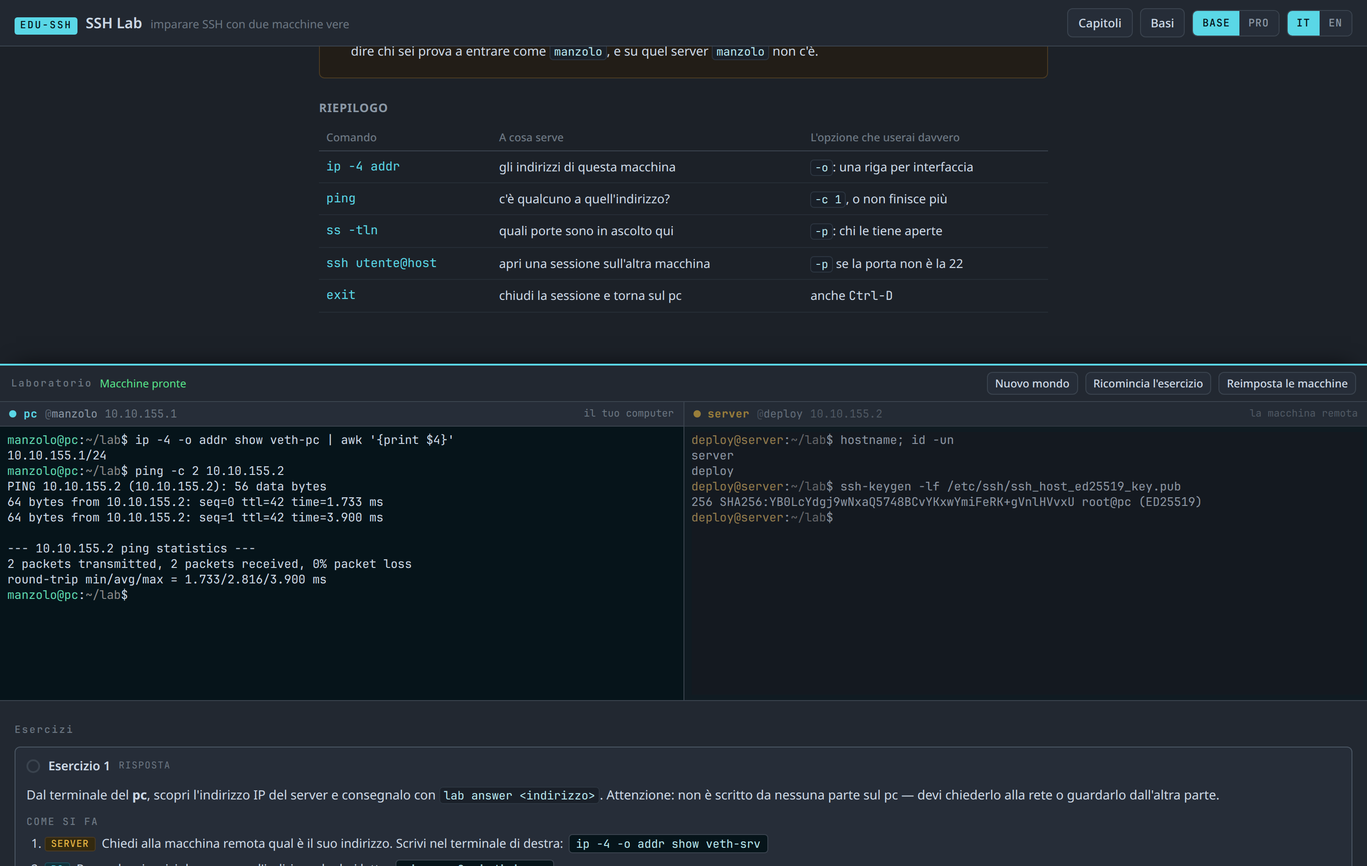
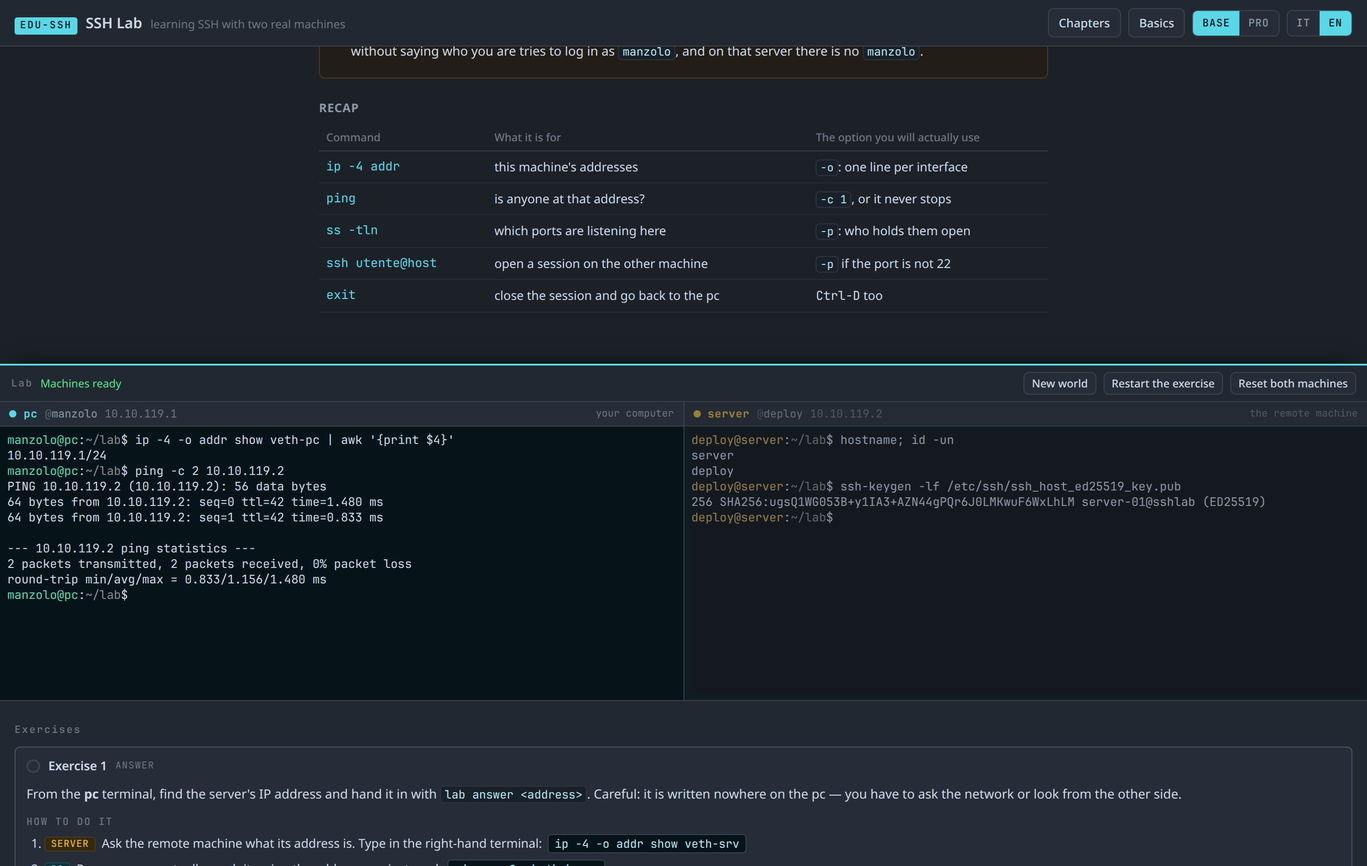
La rotazione sicura aggiunge, prova e solo dopo ritira

diff --git a/content/ch12/chapter.js b/content/ch12/chapter.js
@@ -1,0 +1,98 @@
+export default {
+    id: "ch12", num: 12, requires: ["ch11"], draft: false,
+    title: { it: "Ruotare senza chiudersi fuori", en: "Rotate without locking yourself out" },
+    oneLiner: { it: "Aggiungi, prova la nuova da sola, e soltanto dopo ritira la vecchia.", en: "Add, test the new key alone, and only then retire the old one." },
+    commands: ["ssh-keygen", "authorized_keys", "IdentitiesOnly", "ssh -i", "commento #"],
+    glossary: ["rotazione additiva", "ritiro", "prova isolata", "rollback", "chiave fantasma"],
+    blocks: [
+        { kind: "hook", html: { it: `Devi sostituire una chiave che apre un server remoto. Se
+            cancelli prima la vecchia e la nuova ha un errore, hai appena perso il canale con cui
+            riparare. La rotazione sicura non e' una sostituzione istantanea. E' una sequenza con
+            un periodo deliberato in cui funzionano entrambe.`, en: `You must replace a key that
+            opens a remote server. If you delete the old one first and the new one is wrong, you
+            just lost the channel needed to repair it. Safe rotation is not an instant
+            replacement. It is a sequence with a deliberate period when both work.` } },
+        { kind: "lead", html: { it: `L'ordine e' la protezione: fai una copia di sicurezza,
+            genera la nuova, aggiungila accanto alla vecchia, provala isolando ogni altra
+            identita', poi commenta la vecchia. Tieni aperta la sessione corrente finche' la
+            prova non e' finita.`, en: `Order is the protection: make a backup, generate the new
+            key, add it beside the old one, test it while isolating every other identity, then
+            comment out the old one. Keep the current session open until testing is complete.` } },
+        { kind: "analogy", html: { it: `Non getti il vecchio mazzo prima di aver provato la nuova
+            chiave nella serratura, dalla parte esterna. Per qualche minuto porti entrambe. Solo
+            quando la nuova apre davvero, segni la vecchia come ritirata.`, en: `You do not throw
+            away the old keyring before trying the new key in the lock from outside. For a few
+            minutes you carry both. Only after the new one actually opens do you mark the old
+            one as retired.` } },
+        { kind: "shown", lines: [
+            { cmd: "ssh-keygen -t ed25519 -f ~/.ssh/id_nuova", out: "Generating public/private ed25519 key pair...", note: { it: "Una rotazione crea una coppia nuova, quindi un'impronta nuova.", en: "A rotation creates a new pair, hence a new fingerprint." } },
+            { cmd: "ssh -o IdentitiesOnly=yes -i ~/.ssh/id_nuova deploy@10.10.0.2 true", out: "", note: { it: "La prova esclude agent e chiavi vecchie: sai quale ha firmato.", en: "The test excludes the agent and old keys: you know which one signed." } },
+            { cmd: "# ssh-ed25519 AAAA... vecchia", out: "", note: { it: "Commentare revoca la riga ma conserva una traccia annullabile.", en: "Commenting revokes the line while keeping reversible evidence." } },
+        ] },
+        { kind: "pitfalls", items: [
+            { it: `<strong>Cancelli la vecchia appena hai copiato la nuova.</strong> Copiare non
+                dimostra che permessi, riga, file e privata siano coerenti. Prova un nuovo login
+                mentre la vecchia e' ancora presente.`, en: `<strong>You delete the old key as
+                soon as you copy the new one.</strong> Copying does not prove permissions, line,
+                file, and private key agree. Test a fresh login while the old one remains.` },
+            { it: `<strong>Provi con un semplice <code>ssh host</code>.</strong> L'agent o un nome
+                predefinito puo' usare ancora la vecchia. Aggiungi <code>IdentitiesOnly=yes</code>
+                e <code>-i id_nuova</code>; poi leggi l'impronta accettata da sshd.`, en: `<strong>
+                You test with plain <code>ssh host</code>.</strong> The agent or a default name may
+                still use the old key. Add <code>IdentitiesOnly=yes</code> and
+                <code>-i id_nuova</code>; then read the fingerprint accepted by sshd.` },
+        ] },
+        { kind: "pro", html: { it: `<p><code>authorized_keys</code> e' un insieme additivo: due
+            righe distinte autorizzano due firme distinte. Non esiste un comando di rotazione
+            atomico nel protocollo SSH. La sicurezza operativa nasce dalla sovrapposizione e da
+            una prova osservata dal server.</p><p>Toccare soltanto il config locale non ritira
+            niente. La pubblica resta valida su ogni server che la contiene. In una ricognizione
+            reale sono emerse <strong>14 chiavi fantasma su 5 macchine</strong>: 7 appartenevano a
+            computer che non esistevano piu', e avevano ancora accesso root. Il ritiro si conclude
+            sui server, non sul pc da cui partivi.</p>`, en: `<p><code>authorized_keys</code> is an
+            additive set: two distinct lines authorise two distinct signatures. The SSH protocol
+            has no atomic rotation command. Operational safety comes from overlap and a test
+            witnessed by the server.</p><p>Changing only local config revokes nothing. The public
+            key remains valid on every server containing it. A real audit uncovered
+            <strong>14 ghost keys across 5 machines</strong>: 7 belonged to computers that no
+            longer existed, and still had root access. Revocation ends on the servers, not on
+            the pc where you started.</p>` } },
+        { kind: "lab" },
+        { kind: "recap", table: [
+            { cmd: "1. aggiungi", what: { it: "affianca la nuova pubblica alla vecchia", en: "place the new public key beside the old one" }, flag: { it: "entrambe devono ancora entrare", en: "both must still log in" } },
+            { cmd: "2. prova", what: { it: "isola la nuova con IdentitiesOnly e -i", en: "isolate the new key with IdentitiesOnly and -i" }, flag: { it: "controlla Accepted sul server", en: "inspect Accepted on the server" } },
+            { cmd: "3. ritira", what: { it: "commenta la vecchia sul server", en: "comment out the old key on the server" }, flag: { it: "la nuova resta attiva", en: "the new key remains active" } },
+        ] },
+    ],
+    exercises: [
+        { id: "e1", tipo: "stato", brief: { it: `Genera
+            <code>~/.ssh/id_nuova</code>. Aggiungi la sua pubblica a
+            <code>authorized_keys</code> di deploy senza togliere la vecchia. Alla fine entrambe
+            le private, usate esplicitamente, devono entrare.`, en: `Generate
+            <code>~/.ssh/id_nuova</code>. Add its public key to deploy's
+            <code>authorized_keys</code> without removing the old one. At the end both private
+            keys, selected explicitly, must log in.` },
+          come: [{ dove: "pc", testo: { it: "Genera una coppia nuova; nel lab puoi lasciare vuota la passphrase per concentrarti sulla sequenza:", en: "Generate a new pair; in the lab you may leave the passphrase empty to focus on the sequence:" }, cmd: "ssh-keygen -t ed25519 -f ~/.ssh/id_nuova" }, { dove: "pc", testo: { it: "Usa la vecchia sessione per appendere, non sovrascrivere, la nuova pubblica sul server.", en: "Use the old access to append, not overwrite, the new public key on the server." }, cmd: "cat ~/.ssh/id_nuova.pub | ssh -o IdentitiesOnly=yes -i ~/.ssh/id_vecchia deploy@10.10.0.2 'umask 077; cat >> ~/.ssh/authorized_keys'" }, { dove: "pc", testo: { it: "Prova entrambe con -i e IdentitiesOnly.", en: "Test both with -i and IdentitiesOnly." } }],
+          nota: { it: "Il check conta due impronte distinte e apre due sessioni vere.", en: "The check counts two distinct fingerprints and opens two real sessions." },
+          checks: [{ id: "due-autorizzazioni", why: { it: "authorized_keys non contiene due impronte distinte.", en: "authorized_keys does not contain two distinct fingerprints." }, nudge: { it: "Sul server usa <code>ssh-keygen -lf ~/.ssh/authorized_keys</code>. Hai usato >> oppure >?", en: "On the server use <code>ssh-keygen -lf ~/.ssh/authorized_keys</code>. Did you use >> or >?" } }, { id: "entrambe-entrano", why: { it: "Una delle due private non apre una sessione BatchMode.", en: "One of the two private keys does not open a BatchMode session." }, nudge: { it: "Provale separatamente con IdentitiesOnly e il rispettivo -i.", en: "Test each separately with IdentitiesOnly and its own -i." } }],
+          hints: [{ it: "Non modificare la riga vecchia.", en: "Do not modify the old line." }, { it: "La pubblica nuova va aggiunta con >> sul server.", en: "Append the new public key with >> on the server." }, { it: "Genera id_nuova e inviane la .pub attraverso un login fatto con id_vecchia.", en: "Generate id_nuova and send its .pub through a login made with id_vecchia." }] },
+        { id: "e2", tipo: "stato", brief: { it: `Entrambe le chiavi sono autorizzate. Prima di
+            rimuovere qualunque riga, apri una nuova sessione usando soltanto
+            <code>id_nuova</code>. La vecchia deve restare in <code>authorized_keys</code>.`, en: `Both
+            keys are authorised. Before removing any line, open a fresh session using only
+            <code>id_nuova</code>. The old key must remain in <code>authorized_keys</code>.` },
+          come: [{ dove: "pc", testo: { it: "Escludi ogni identita' implicita:", en: "Exclude every implicit identity:" }, cmd: "ssh -o BatchMode=yes -o IdentitiesOnly=yes -i ~/.ssh/id_nuova deploy@10.10.0.2 true" }, { dove: "server", testo: { it: "Controlla che l'ultimo Accepted riporti l'impronta nuova e che entrambe le righe esistano ancora.", en: "Verify that the latest Accepted reports the new fingerprint and both lines still exist." } }],
+          nota: { it: "Cancellare gia' la vecchia fa fallire questo passaggio, anche se la nuova funziona.", en: "Deleting the old key already fails this step, even if the new one works." },
+          checks: [{ id: "nuova-provata", why: { it: "sshd non ha registrato un Accepted con l'impronta nuova.", en: "sshd has not recorded an Accepted with the new fingerprint." }, nudge: { it: "Usa insieme BatchMode, IdentitiesOnly e -i id_nuova; poi leggi il registro.", en: "Use BatchMode, IdentitiesOnly, and -i id_nuova together; then read the log." } }, { id: "vecchia-ancora-presente", why: { it: "La prova e' avvenuta dopo aver gia' tolto una delle due autorizzazioni.", en: "The test happened after one of the two authorisations had already been removed." }, nudge: { it: "authorized_keys deve ancora mostrare entrambe le impronte.", en: "authorized_keys must still show both fingerprints." } }],
+          hints: [{ it: "Questo passo non modifica authorized_keys.", en: "This step does not modify authorized_keys." }, { it: "Un semplice ssh potrebbe usare la vecchia o l'agent.", en: "Plain ssh might use the old key or the agent." }, { it: "Esegui il comando con IdentitiesOnly=yes e -i ~/.ssh/id_nuova.", en: "Run the command with IdentitiesOnly=yes and -i ~/.ssh/id_nuova." }] },
+        { id: "e3", tipo: "stato", brief: { it: `La nuova e' gia' stata provata. Sul server
+            commenta la riga della vecchia con <code># </code>, senza cancellarla. Dimostra che
+            la vecchia e' rifiutata e la nuova entra ancora.`, en: `The new key has already been
+            tested. On the server, comment out the old line with <code># </code>, without deleting
+            it. Prove that the old key is rejected and the new one still logs in.` },
+          come: [{ dove: "server", testo: { it: "Fai prima una copia del file, riconosci la vecchia per impronta e aggiungi # davanti alla sua riga.", en: "First back up the file, identify the old key by fingerprint, and add # before its line." } }, { dove: "pc", testo: { it: "Prova separatamente la vecchia, che deve fallire, e la nuova, che deve riuscire.", en: "Test the old key separately, which must fail, and the new one, which must succeed." } }],
+          nota: { it: "Il commento e' un ritiro effettivo ma annullabile. Il file non resta mai senza una chiave attiva.", en: "The comment is an effective but reversible revocation. The file never lacks an active key." },
+          checks: [{ id: "vecchia-ritirata", why: { it: "La vecchia privata e' ancora accettata.", en: "The old private key is still accepted." }, nudge: { it: "Controlla che la riga con la sua impronta cominci davvero con #.", en: "Verify that the line with its fingerprint actually begins with #." } }, { id: "nuova-attiva", why: { it: "La nuova non apre piu' una sessione.", en: "The new key no longer opens a session." }, nudge: { it: "Non lasciare authorized_keys vuoto e non commentare la riga nuova.", en: "Do not leave authorized_keys empty or comment out the new line." } }, { id: "ritiro-annullabile", why: { it: "La vecchia riga e' stata cancellata invece che commentata, oppure non resta una chiave attiva.", en: "The old line was deleted rather than commented, or no active key remains." }, nudge: { it: "Ripristina dal backup e aggiungi esattamente <code># </code> davanti alla riga vecchia.", en: "Restore from backup and add exactly <code># </code> before the old line." } }],
+          hints: [{ it: "Calcola le impronte delle due .pub sul pc e delle righe sul server.", en: "Fingerprint both .pub files on the pc and the server lines." }, { it: "Non cancellare: conserva la riga come commento.", en: "Do not delete: preserve the line as a comment." }, { it: "Aggiungi # davanti alla riga di id_vecchia, poi prova entrambe con IdentitiesOnly.", en: "Add # before the id_vecchia line, then test both with IdentitiesOnly." }] },
+    ],
+};

diff --git a/content/index.js b/content/index.js
@@ -19,11 +19,11 @@ export const CAPITOLI = [
     { id: "ch09", num: 9, carica: () => import("./ch09/chapter.js") },
     { id: "ch10", num: 10, carica: () => import("./ch10/chapter.js") },
     { id: "ch11", num: 11, carica: () => import("./ch11/chapter.js") },
+    { id: "ch12", num: 12, carica: () => import("./ch12/chapter.js") },
 ];
 
-export const IN_ARRIVO = [
-    { num: 12, titolo: { it: "Ruotare una chiave senza chiudersi fuori", en: "Rotating a key without locking yourself out" } },
-];
+// Il corso promesso e' completo; la lista resta per il contratto della UI.
+export const IN_ARRIVO = [];
 
 const cache = new Map();
 

diff --git a/STATO.md b/STATO.md
@@ -1,13 +1,14 @@
 # STATO DEL LAVORO — leggi questo prima di toccare qualsiasi cosa
 
-Aggiornato al **2026-08-16**, dopo il completamento dei capitoli 2, 3 e 4.
+Aggiornato al **2026-08-16**, dopo il completamento dei dodici capitoli.
 
 Questo file esiste per una ragione sola: **evitarti di riscoprire l'acqua calda.**
 Il motore di questo lab è finito e misurato, e ci sono dentro una decina di guasti già
 pagati a caro prezzo che da fuori sembrano scelte arbitrarie. Sotto trovi quali sono,
 perché il codice è fatto così, e cosa manca davvero.
 
-**Il lavoro che resta è in [`BACKLOG.md`](BACKLOG.md): i capitoli 5…12.**
+**Il lavoro didattico e' completo.** La coda esterna e la consegna sono in
+[`BACKLOG.md`](BACKLOG.md) sotto «Fuori dai capitoli».
 
 ---
 
@@ -21,7 +22,7 @@ Sito statico, bilingue IT/EN, **zero dipendenze a runtime, zero build del sito**
 destinato a GitHub Pages. Fa parte della collana EDU-\* di manzolo e nasce da
 **LinuxLab** (stesso motore, copiato al commit `a8dee38` e poi divergente).
 
-Stato: **motore e infrastruttura completi e verificati, 4 capitoli su 12 scritti.**
+Stato: **motore, infrastruttura e 12 capitoli su 12 completi e verificati.**
 
 ---
 
@@ -33,9 +34,9 @@ L'immagine del guest **non è nel repo** (`images/` è in `.gitignore`): va cost
 npm run image     # ~4 min. Serve: Docker, zstd, python con il modulo zstandard
 npm run serve     # http://localhost:8802  (i moduli ES non si caricano da file://)
 
-npm test          # ~1 s   — struttura, bilinguismo, opzioni VM. Attesi: 2 file / 16 controlli
+npm test          # ~1 s   — struttura, bilinguismo, opzioni VM. Attesi: 60/60
 npm run e2e       # ~1 min — Chrome headless sul sito servito. Atteso: tutto verde
-npm run test:labs # ~5 min — infrastruttura vera + ogni esercizio su tre semi
+npm run test:labs # ~15 min — infrastruttura vera + ogni esercizio su tre semi
 npm run test:regressione # ~3 min — consegna, CWD, identita' e tastiera dal terminale
 ```
 
@@ -44,8 +45,8 @@ dopo ogni modifica all'infrastruttura. Consegna, cambio esercizio, identita' dei
 terminali e coda della tastiera hanno ora regressioni che digitano come una persona;
 la lettura manuale resta insostituibile prima di accettare un capitolo o una modifica UI.
 
-Al 2026-08-16 sono verdi: `npm test` (2 file, 16 controlli) · `e2e` ·
-`test:labs` 15/15 · `test:consegna` 5/5 · `test:cwd` 5/5 ·
+Al 2026-08-16 sono verdi: `npm test` 60/60 · `e2e` ·
+`test:labs` 177/177 · `test:consegna` 5/5 · `test:cwd` 5/5 ·
 `test:identita` 4/4 · `test:tastiera` 3/3.
 
 ---
@@ -123,7 +124,7 @@ vuoto. Chi apre il lab trova tutto in piedi in mezzo secondo.
 
 ---
 
-## 5. I dodici guasti già pagati — NON ripercorrerli
+## 5. I tredici guasti già pagati — NON ripercorrerli
 
 Sono tutti reali, tutti costati tempo, e **tutti hanno lasciato un commento nel codice**
 nel punto in cui potresti disfarli senza accorgertene. Se una riga ti sembra
@@ -230,6 +231,18 @@ risultato piu' recente diventa quella riga e non l'accesso SSH. Anche
 soltanto righe marcate `sshd[...]` o `sshd-session[...]`; il banco infrastrutturale aggiunge
 apposta una falsa riga sudo dopo un login riuscito.
 
+### 5.9 · La rete variabile di un esercizio non deve trapelare nel successivo
+
+Il capitolo 1 cambia apposta gli indirizzi in `10.10.X.1/2`, ma i capitoli successivi
+insegnano comandi con la rete base `10.10.0.1/2`. I loro seed preparavano chiavi e file
+senza ripristinare gli indirizzi: i check passavano perche' usano `lab_srv_ip`, mentre
+chi seguiva il testo otteneva `Network unreachable` dal capitolo 5 in poi.
+
+→ `labagentd` ripristina rete, file di stato e cache ARP prima di ogni `seed` e `reset`;
+il seed di ch01 puo' poi sostituirli con il proprio mondo variabile.
+→ `tests/labs.mjs` semina ch01 e subito dopo ch05, e pretende il ritorno esatto alla
+rete dichiarata nei comandi didattici.
+
 ---
 
 ## 6. Le regole del contenuto, che valgono più del codice
@@ -293,8 +306,9 @@ provati nella VM vera da `tests/infrastruttura.sh`.
 ### Fatto e verificato
 
 - Motore a due host, snapshot, i due terminali, il canale di verifica.
-- **Capitoli 1-4** completi IT/EN e provati a mano: due host, coppia privata/pubblica,
-  impronta e primo login con `authorized_keys`.
+- **Capitoli 1-12** completi IT/EN: dai due host alla rotazione additiva, con 25
+  esercizi. Ogni stato iniziale fallisce, ogni soluzione passa su tre semi e ogni
+  scorciatoia dichiarata viene respinta.
 - Guida «Basi» che si apre alla prima visita, sommario, profondità BASE/PRO, IT/EN.
 - Otto banchi di prova, fra cui quattro che **fanno il giro come lo fa una persona**
   (`test:consegna`, `test:cwd`, `test:identita`, `test:tastiera`) — esistono perché tutti i difetti
@@ -311,10 +325,9 @@ provati nella VM vera da `tests/infrastruttura.sh`.
 
 ### Manca
 
-- **I capitoli 5…12.** Stanno in `BACKLOG.md` con, per ciascuno,
-  l'invariante misurabile di ogni esercizio.
 - La correzione del `\r` (§5.2) da portare su **LinuxLab, che è online**.
 - La consegna: `gh repo create manzolo/SshLab`, Pages, topic `edu-simulator`.
+- La scheda e la riga di diario nel Gemello Digitale.
 
 ### Materia prima per i capitoli
 

diff --git a/BACKLOG.md b/BACKLOG.md
@@ -1,7 +1,8 @@
-# BACKLOG — i capitoli 5…12
+# BACKLOG — invarianti dei dodici capitoli e coda aperta
 
-Stato al 2026-08-16: **il motore e l'infrastruttura I1-I4 sono finiti; il capitolo 1
-è in piedi.** I capitoli 2-4 sono completi; mancano i capitoli 5-12.
+Stato al 2026-08-16: **motore, infrastruttura I1-I4 e capitoli 1-12 sono completi.**
+Le specifiche restano qui come contratto dei check; il lavoro ancora aperto e' in
+«Fuori dai capitoli».
 
 Questo file è scritto per essere aperto da un agente e lavorato un capitolo per volta.
 Non è un elenco di titoli: per ogni capitolo c'è **l'invariante misurabile**, che è la
@@ -199,7 +200,7 @@ riprovare e capire.
 
 ---
 
-### ch05 · Chi firma cosa — *autorizzata non vuol dire firmabile*
+### ch05 · Chi firma cosa — *autorizzata non vuol dire firmabile* (completato)
 
 **La cosa che si impara:** il server non «riconosce» te: verifica una firma. Se la
 privata non c'è, la riga in `authorized_keys` non serve a niente — e viceversa.
@@ -219,7 +220,7 @@ segreto non attraversa mai il filo, nemmeno cifrato.
 
 ---
 
-### ch06 · `known_hosts` e la prima volta (TOFU)
+### ch06 · `known_hosts` e la prima volta (TOFU) (completato)
 
 **La cosa che si impara:** finora abbiamo verificato **te**. Adesso verifichiamo
 **lui**. La prima volta non c'è modo di sapere se è il server giusto: si fida e si
@@ -242,7 +243,7 @@ esiste, cosa fa e perché sui sistemi veri è come togliere la serratura.
 
 ---
 
-### ch07 · «L'impronta è cambiata» — *il capitolo che si può sbagliare*
+### ch07 · «L'impronta è cambiata» — *il capitolo che si può sbagliare* (completato)
 
 **La cosa che si impara:** quel muro giallo con
 `WARNING: REMOTE HOST IDENTIFICATION HAS CHANGED` è una domanda, non un ostacolo. Il
@@ -272,7 +273,7 @@ corso in cui la risposta giusta è non fare niente**, e va detto nel testo dopo.
 
 ---
 
-### ch08 · Permessi — *cosa pretende `sshd`, e perché*
+### ch08 · Permessi — *cosa pretende `sshd`, e perché* (completato)
 
 **La cosa che si impara:** `sshd` rifiuta le chiavi che chiunque altro potrebbe aver
 scritto. Lato client, `ssh` rifiuta di usare una privata leggibile da altri. Sono due
@@ -300,7 +301,7 @@ scrivibile da altri, chi può rinominare `.ssh` può metterci il proprio.
 
 ---
 
-### ch09 · La passphrase — *e le tre cose che non risolve*
+### ch09 · La passphrase — *e le tre cose che non risolve* (completato)
 
 **La cosa che si impara:** la passphrase cifra la chiave **sul disco**. Non cambia la
 chiave, non cambia la pubblica, non ritira niente. È il capitolo con il materiale
@@ -325,7 +326,7 @@ falsifica il tempo: si dichiara.
 
 ---
 
-### ch10 · `ssh-agent` — *la passphrase una volta sola*
+### ch10 · `ssh-agent` — *la passphrase una volta sola* (completato)
 
 **La cosa che si impara:** l'agent tiene la chiave **sbloccata in memoria** e firma per
 conto tuo. Non è un portachiavi di password: è un processo che sa firmare e non
@@ -354,7 +355,7 @@ va nel «se avanza».
 
 ---
 
-### ch11 · Troppe chiavi — *`IdentitiesOnly`, e il conto delle offerte*
+### ch11 · Troppe chiavi — *`IdentitiesOnly`, e il conto delle offerte* (completato)
 
 **La cosa che si impara:** il client **offre le chiavi una per una**, e il server ne
 accetta solo un certo numero di tentativi (`MaxAuthTries`, di default 6). Con sei chiavi
@@ -381,7 +382,7 @@ Nel testo: sul server di qualcun altro quel numero non lo alzi tu.
 
 ---
 
-### ch12 · Ruotare una chiave senza chiudersi fuori — *capstone*
+### ch12 · Ruotare una chiave senza chiudersi fuori — *capstone* (completato)
 
 **La cosa che si impara:** la sequenza in cinque passi che sta in
 `30_Note/chiavi-ssh.md` §«Da fare (in ordine, sempre additivo)». È **additiva**:
@@ -435,7 +436,7 @@ computer che non esistono più, e con accesso root.
       «la verifica non ha risposto». Il difetto è ereditato da lì.
 - [ ] **Consegna:** `gh repo create manzolo/SshLab`, Pages, topic `edu-simulator`,
       riga nel profilo `~/Workspaces/github/manzolo`.
-- [ ] **Screenshot del README** rigenerati quando i capitoli saranno più di uno
+- [x] **Screenshot del README** rigenerati con tutti e dodici i capitoli
       (`npm run screenshot`).
 - [ ] **Gemello:** scheda in `20_Progetti/ssh-lab.md` e una riga nel `Diario/2026-08.md`
       sul *perché* — l'unica parte non ricostruibile dai commit.

diff --git a/README.md b/README.md
@@ -89,20 +89,20 @@ quella nascosta quando l'altra macchina stampa qualcosa:
 | | Capitolo | |
 |---|---|---|
 | 01 | Due macchine e un cavo | ✅ |
-| 02 | La coppia di chiavi | in arrivo |
-| 03 | L'impronta | in arrivo |
-| 04 | `authorized_keys`: entrare senza password | in arrivo |
-| 05 | Chi firma cosa | in arrivo |
-| 06 | `known_hosts` e la prima volta | in arrivo |
-| 07 | «L'impronta è cambiata» | in arrivo |
-| 08 | Permessi: cosa pretende `sshd` | in arrivo |
-| 09 | La passphrase | in arrivo |
-| 10 | `ssh-agent` | in arrivo |
-| 11 | Troppe chiavi: `IdentitiesOnly` | in arrivo |
-| 12 | Ruotare una chiave senza chiudersi fuori | in arrivo |
+| 02 | La coppia di chiavi | ✅ |
+| 03 | L'impronta | ✅ |
+| 04 | `authorized_keys`: entrare senza password | ✅ |
+| 05 | Chi firma cosa | ✅ |
+| 06 | `known_hosts` e la prima volta | ✅ |
+| 07 | «L'impronta è cambiata» | ✅ |
+| 08 | Permessi: cosa pretende `sshd` | ✅ |
+| 09 | La passphrase | ✅ |
+| 10 | `ssh-agent` | ✅ |
+| 11 | Troppe chiavi: `IdentitiesOnly` | ✅ |
+| 12 | Ruotare una chiave senza chiudersi fuori | ✅ |
 
-I capitoli non ancora scritti compaiono lo stesso nel sommario, con il loro obiettivo:
-un vuoto dichiarato toglie l'ansia meglio di un vuoto nascosto.
+I dodici capitoli sono disponibili nel sommario e formano un percorso unico: dalla
+prima connessione alla rotazione additiva di una chiave.
 
 ## Farlo girare in locale
 

diff --git a/README.en.md b/README.en.md
@@ -87,20 +87,20 @@ hidden one when the other machine prints something:
 | | Chapter | |
 |---|---|---|
 | 01 | Two machines and a cable | ✅ |
-| 02 | The key pair | coming |
-| 03 | The fingerprint | coming |
-| 04 | `authorized_keys`: getting in without a password | coming |
-| 05 | Who signs what | coming |
-| 06 | `known_hosts` and the first time | coming |
-| 07 | “The fingerprint changed” | coming |
-| 08 | Permissions: what `sshd` demands | coming |
-| 09 | The passphrase | coming |
-| 10 | `ssh-agent` | coming |
-| 11 | Too many keys: `IdentitiesOnly` | coming |
-| 12 | Rotating a key without locking yourself out | coming |
+| 02 | The key pair | ✅ |
+| 03 | The fingerprint | ✅ |
+| 04 | `authorized_keys`: getting in without a password | ✅ |
+| 05 | Who signs what | ✅ |
+| 06 | `known_hosts` and the first time | ✅ |
+| 07 | “The fingerprint changed” | ✅ |
+| 08 | Permissions: what `sshd` demands | ✅ |
+| 09 | The passphrase | ✅ |
+| 10 | `ssh-agent` | ✅ |
+| 11 | Too many keys: `IdentitiesOnly` | ✅ |
+| 12 | Rotating a key without locking yourself out | ✅ |
 
-Chapters not yet written still appear in the table of contents, with their goal: a
-declared gap is less unsettling than a hidden one.
+All twelve chapters are available in the table of contents and form one path, from
+the first connection to additive key rotation.
 
 ## Running it locally
 
